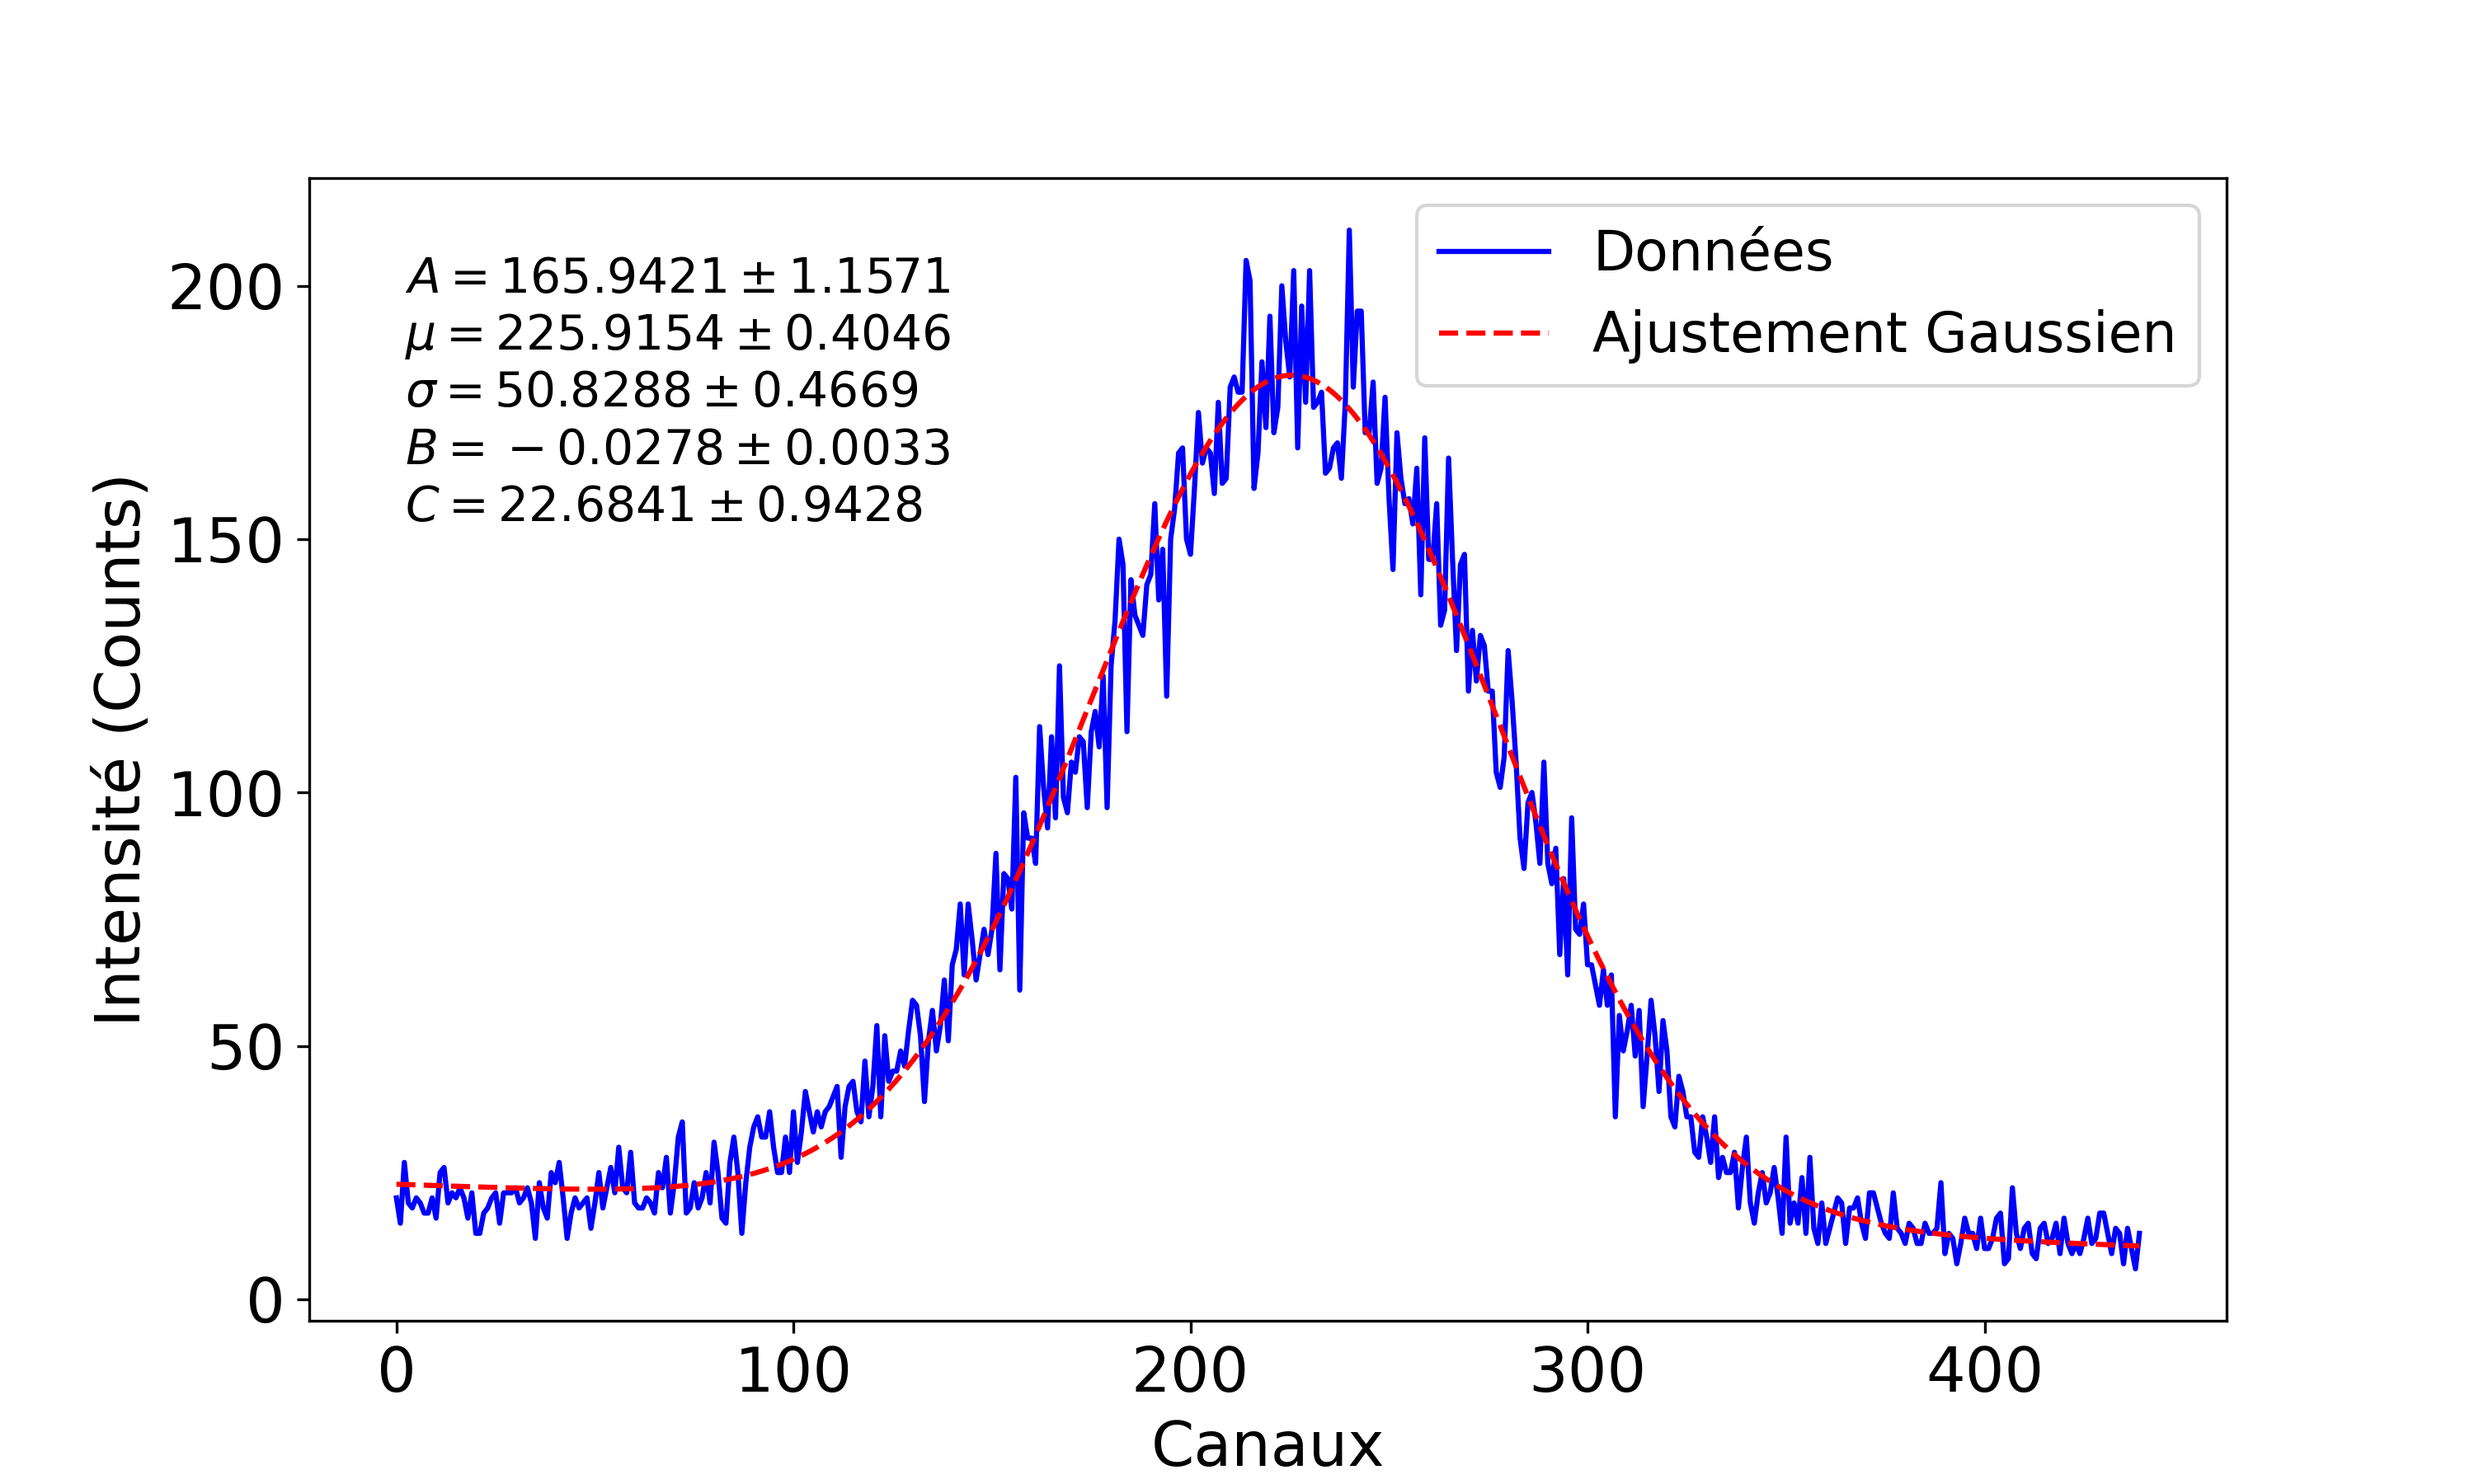
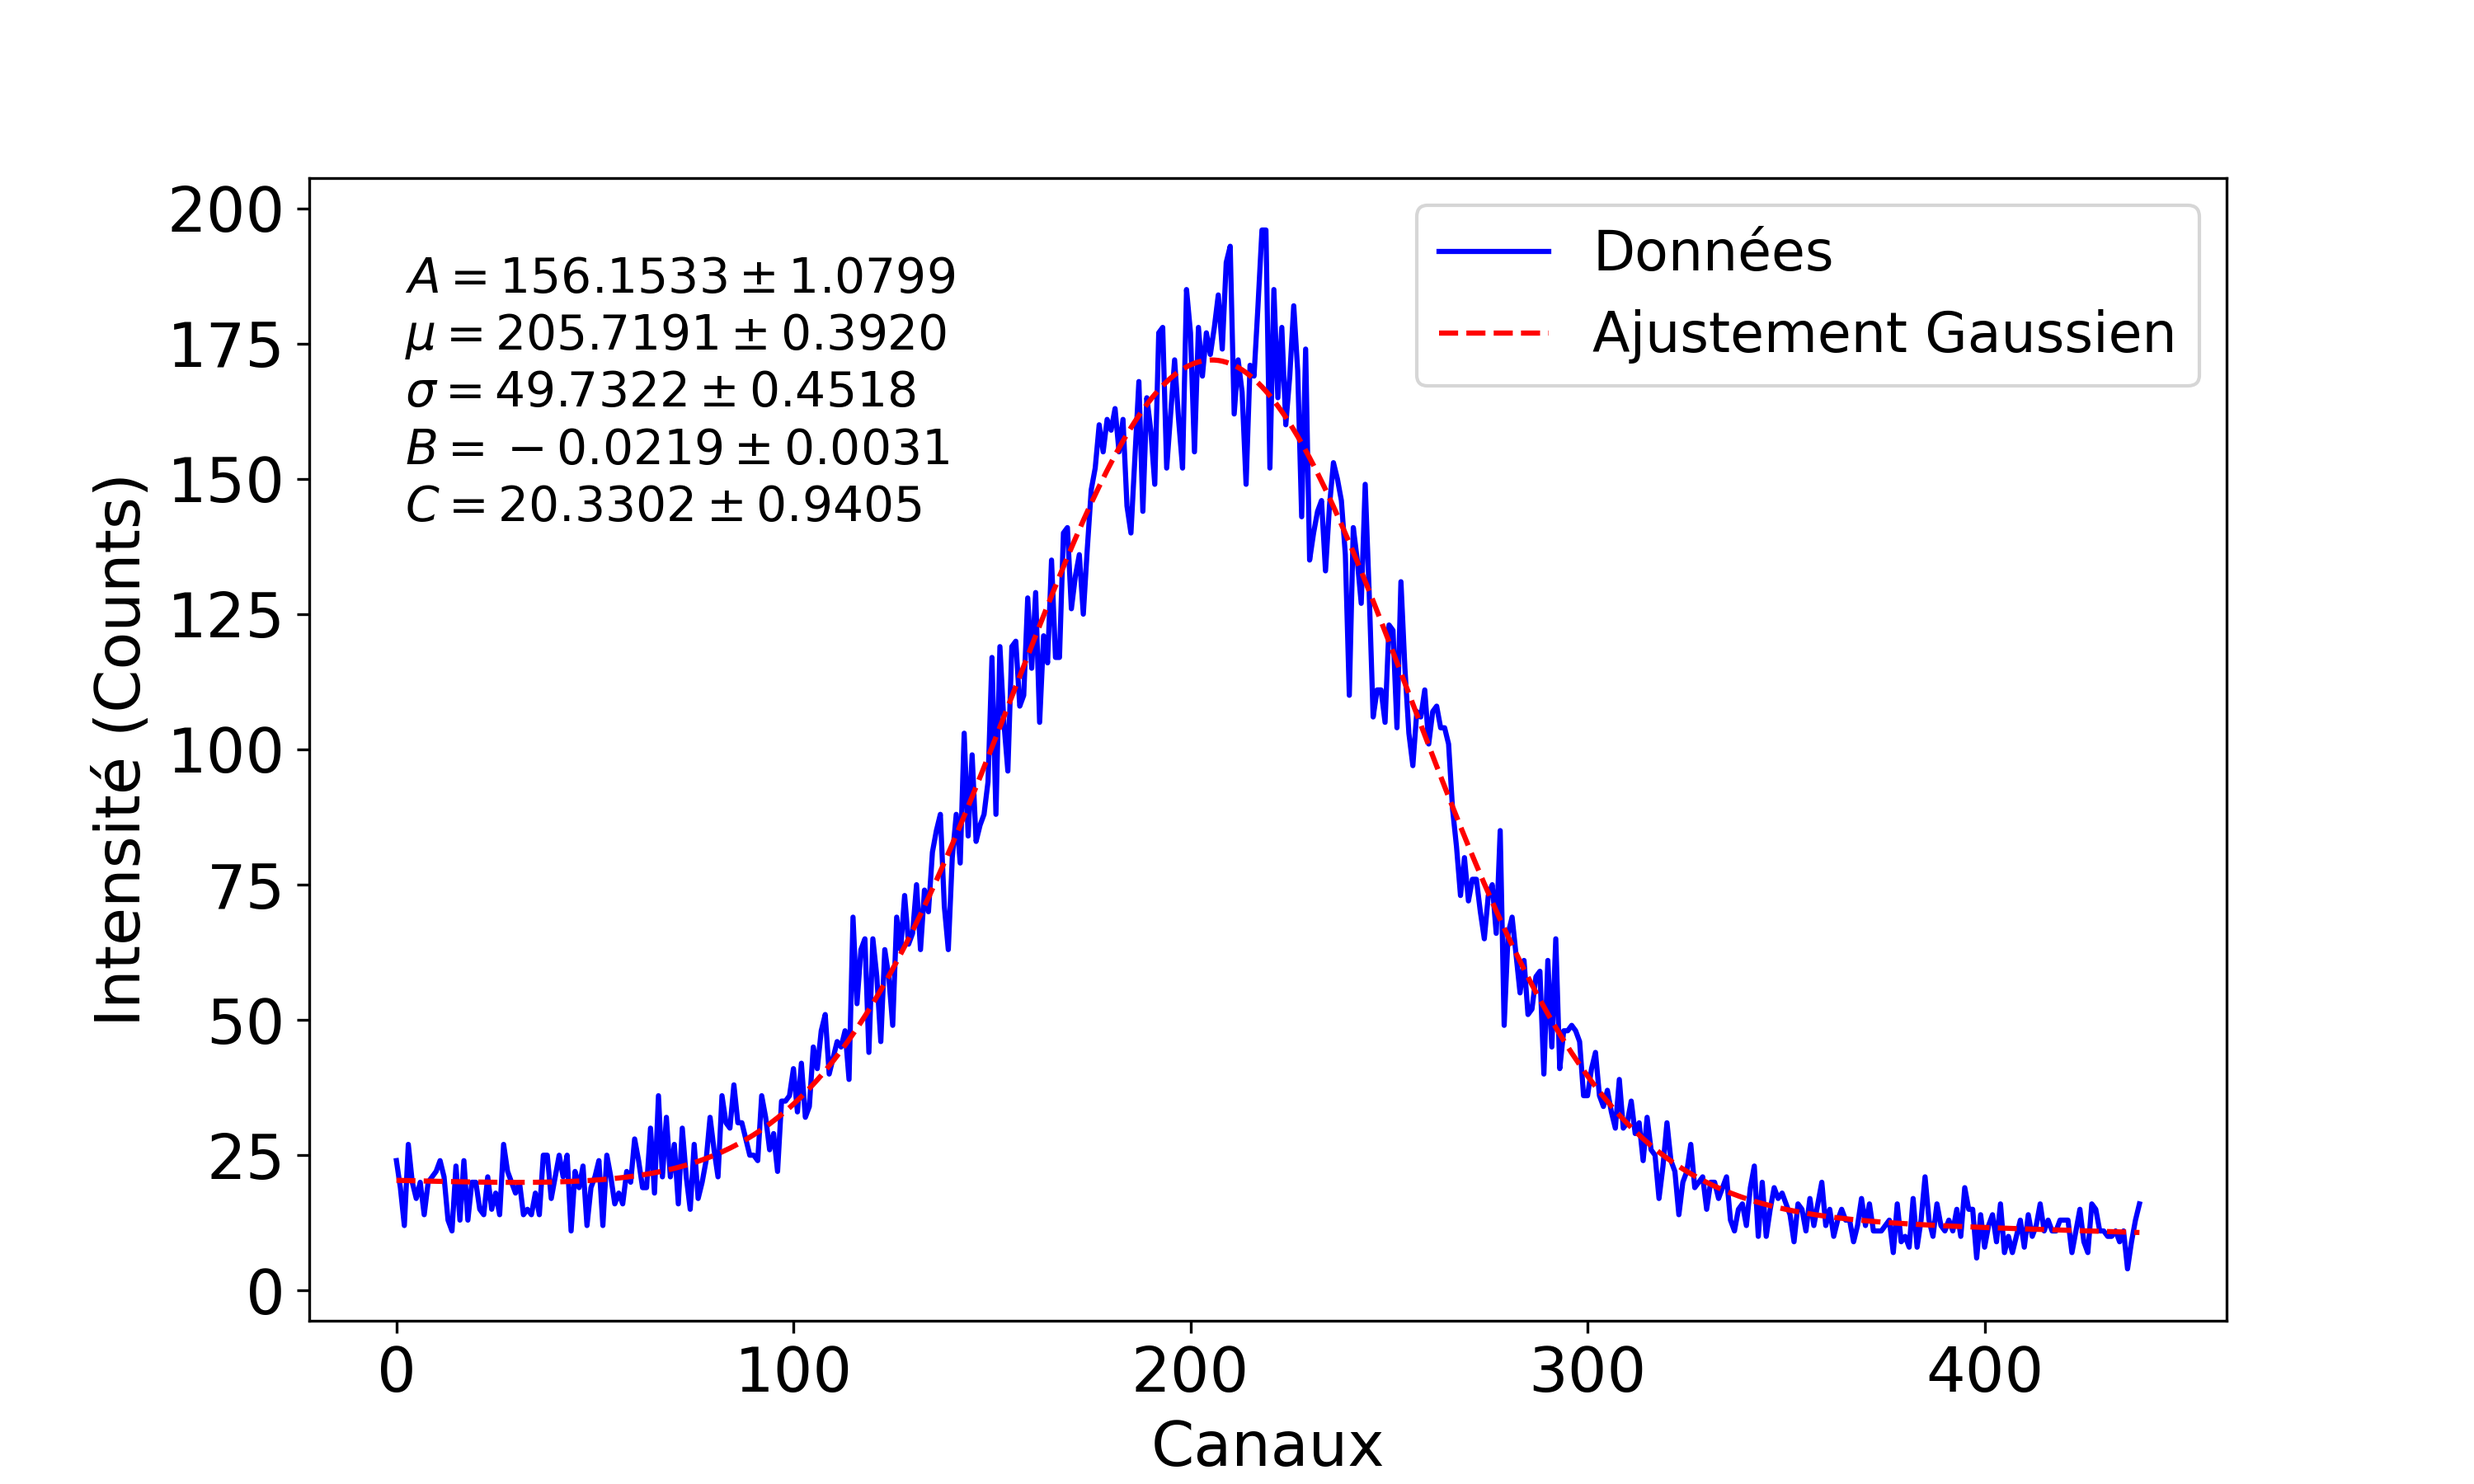
push

diff --git a/PHY-3004/Annihilation/x.py b/PHY-3004/Annihilation/x.py
@@ -17,7 +17,7 @@ def load_text(source, max_channels=4096):
     return np.loadtxt(f"PHY-3004/Annihilation/Data/{source}.Spe", skiprows=12, max_rows=max_channels, dtype=float)
 
 # --- CHARGEMENT DES DONNÉES ---
-sources= ['fixe_Co60Co57Cs137', 'fixe_Na22']
+sources= ['fixe_Co60Co57Cs137', 'mobile_Na22']
 
 
 
